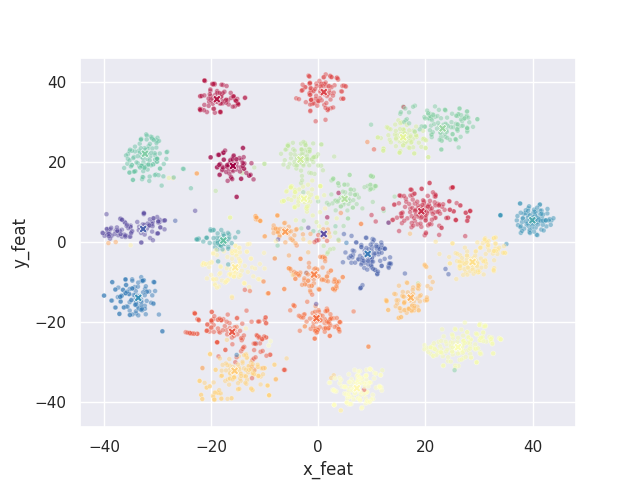
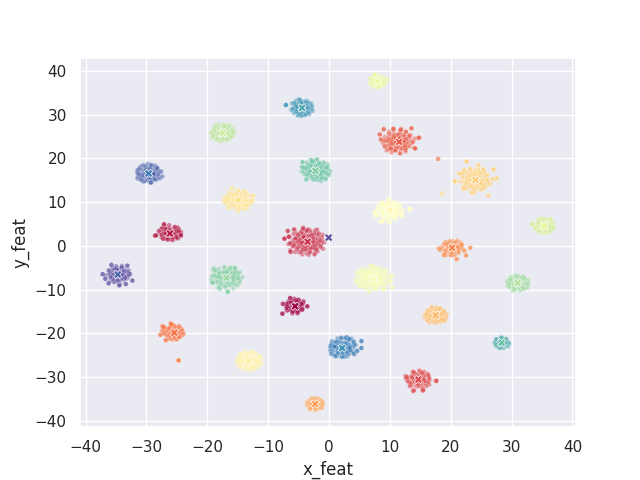
Found centroids using Domain Embeddings and Pre trained weights from image_source_only training

diff --git a/warmup.py b/warmup.py
@@ -65,10 +65,12 @@ def load_models(args,dom_adapts):
         netF = network.ViT().to(device)
     
     args.feature_dim = netF.in_features
-    args.bottleneck_dim = 256
-
-    netB = network.feat_bootleneck(type='bn', feature_dim=args.feature_dim,bottleneck_dim=args.bottleneck_dim).to(device)
-    netC = network.feat_classifier(type='wn', class_num=args.class_num, bottleneck_dim=args.bottleneck_dim).to(device)
+    netB = network.feat_bootleneck(
+        type=args.classifier,
+        feature_dim=netF.in_features + args.proto_dim,
+        bottleneck_dim=args.bottleneck
+     ).to(device)
+    netC = network.feat_classifier(type=args.layer, class_num=args.class_num, bottleneck_dim=args.bottleneck).to(device)
 
     modelpathF = f'{args.trained_wt}/{dom_adapts}/source_F.pt'
     netF.load_state_dict(torch.load(modelpathF))
@@ -90,7 +92,14 @@ def load_models(args,dom_adapts):
     return model_loaders
 
 
-def compute_features(args, net, dataloader, dataset_name=None):
+def attach_embd(prototypes, feats, dom_idx):
+    dom_embd = prototypes[dom_idx] # accessing domain embedding according to domain index
+                                    # shape: [bs, 512]
+    x = torch.cat((feats, dom_embd), dim=1) # concat: ([bs, 2048], [bs, 512])
+    return x
+
+
+def compute_features(args, net, dataloader, prototypes, dataset_name=None):
     # print(len(dataloader))
     netF,netB, netC = net[0], net[1], net[2]
     print(f'Computing features for [{dataset_name}] -', len(dataloader)*args.batch_size, 'images')
@@ -98,7 +107,7 @@ def compute_features(args, net, dataloader, dataset_name=None):
     correct = 0
     total = 0
     stored_feat_lbl = {}
-    stored_feat_lbl['feature'] = torch.empty((1,args.bottleneck_dim)).to(device)
+    stored_feat_lbl['feature'] = torch.empty((1,args.bottleneck)).to(device)
     stored_feat_lbl['label'] = torch.empty((1), dtype=torch.int).to(device)
     # print(store_feat)
     
@@ -106,11 +115,14 @@ def compute_features(args, net, dataloader, dataset_name=None):
         iter_test = iter(dataloader)
         for i in tqdm(range(len(dataloader))):
             data = iter_test.next()
-            inputs = data[0][0].to('cuda')
-            labels = data[0][1].to('cuda')
-            
-            feats = netB(netF(inputs))            
+            inputs = data[0][0].to(device)
+            labels = data[0][1].to(device)
+            dom_idx = data[1]
 
+            fout  = netF(inputs)
+            x = attach_embd(prototypes, fout , dom_idx)
+            feats = netB(x)
+            
             stored_feat_lbl['feature'] = torch.cat((stored_feat_lbl['feature'], feats), 0)
             stored_feat_lbl['label'] = torch.cat((stored_feat_lbl['label'], labels), 0)
 
@@ -137,9 +149,9 @@ def compute_features(args, net, dataloader, dataset_name=None):
 
 def compute_centroids(args,features_labels):
     
-    run_sum = torch.zeros((args.class_num, args.bottleneck_dim), dtype=torch.float).to(device)
+    run_sum = torch.zeros((args.class_num, args.bottleneck), dtype=torch.float).to(device)
     lbl_cnt = torch.ones((args.class_num), dtype=torch.float).to(device)
-    cls_centroids = torch.zeros((args.class_num, args.bottleneck_dim), dtype=torch.float).to(device)
+    cls_centroids = torch.zeros((args.class_num, args.bottleneck), dtype=torch.float).to(device)
 
     for feat, lbl in zip(features_labels['feature'],features_labels['label']):
         run_sum[lbl] += feat
@@ -190,12 +202,18 @@ def main(args):
     dom_dataloaders[args.target] = train_target_loader
     model_loaders ={}
 
+    print("Loading Domian Embeddings from: %s" % args.proto_path)
+    prototypes_file = osp.join(args.proto_path)
+    prototypes = torch.load(prototypes_file)
+    prototypes = torch.stack(list(prototypes.values()), dim=0)  # shape: [4, 512]
+    prototypes = prototypes.to(device)
+
     for domain in [args.source, args.target]:
         model_loaders[domain] = load_models(args, domain)
         features_labels = {}
 
         # Compute features and labels of src and targets using src trained wts
-        features_labels[domain] = compute_features(args, model_loaders[domain] , dom_dataloaders[domain], dataset_name=domain)
+        features_labels[domain] = compute_features(args, model_loaders[domain] , dom_dataloaders[domain], prototypes, dataset_name=domain)
         # features_labels['target'] = compute_features(args, model_loaders[args.target] , dom_dataloaders[args.target], dataset_name=args.target)
         np_cls_centroids = compute_centroids(args,features_labels[domain]).cpu().numpy()
         np_feat = features_labels[domain]['feature'].cpu().numpy()
@@ -206,20 +224,30 @@ def main(args):
         break
 
 if __name__ == "__main__":
-    parser = argparse.ArgumentParser(description='Clusformer')
-    parser.add_argument('-b', '--batch_size', default=32, type=int,help='mini-batch size (default: 54)')
+    parser = argparse.ArgumentParser(description='Centroids')
+    parser.add_argument('-b', '--batch_size', default=64, type=int,help='mini-batch size (default: 64)')
     # parser.add_argument('--gpu_id', type=str, nargs='?', default='0', help="device id to run")
     parser.add_argument('--root', default='data/', type=str, )
     parser.add_argument('--workers', default=8, type=int )
     parser.add_argument('-s', '--source',default='Ar,Pr', type=str,help='Select the source [amazon, dslr, webcam]')
     parser.add_argument('-t', '--target', default='Cl,Rw',type=str,help='Select the target [amazon, dslr, webcam]')
     parser.add_argument('-d', '--dataset',default='OfficeHome', type=str,help='Select the target [amazon, dslr, webcam]')
+    parser.add_argument('--proto_path', help="path to Domain Embedding Prototypes")
     # parser.add_argument('-e', '--epochs', default=40, type=int,help='select number of cycles')
+    parser.add_argument('--proto_dim', type=int, default=512)
+    parser.add_argument('--bottleneck', type=int, default=256)
+    parser.add_argument('--layer', type=str, default="wn", choices=["linear", "wn"])
+    parser.add_argument('--classifier', type=str, default="bn", choices=["ori", "bn"])
     parser.add_argument('-w', '--wandb', default=0, type=int,help='Log to wandb or not [0 - dont use | 1 - use]')
-    parser.add_argument('--net', default='resnet50', type=str,help='Select vit or resnet50 based (default: vit)')
+    parser.add_argument('--net', default='resnet50', type=str,help='Select vit or resnet50 based (default: resnet50)')
     parser.add_argument('-l', '--trained_wt', default='weights/uda/OfficeHome', type=str,help='Load src')
     args = parser.parse_args()
     print(args)
+
+
+    # args.proto_path = "./protoruns/run7/prototypes.pth"
+    assert osp.exists(args.proto_path), "Domain Embeddings Prototypes does not exists." 
+
     main(args)
 # data_size, dims, num_clusters = 1000, 2, 3
 # x = np.random.randn(data_size, dims) / 6

diff --git a/image_source_final.py b/image_source_final.py
@@ -190,6 +190,7 @@ def train_source(args):
     optimizer = optim.SGD(param_group)
     optimizer = op_copy(optimizer)
 
+    print("Loading Domian Embeddings from: %s" % args.proto_path)
     prototypes_file = osp.join(args.proto_path)
     prototypes = torch.load(prototypes_file)
     prototypes = torch.stack(list(prototypes.values()), dim=0)  # shape: [4, 512]
@@ -337,7 +338,7 @@ def print_args(args):
     return s
 
 if __name__ == "__main__":
-    parser = argparse.ArgumentParser(description='SHOT')
+    parser = argparse.ArgumentParser(description='SourceOnly Training')
     parser.add_argument('--source',default='Ar,Pr', type=str, help="source")
     parser.add_argument('--target',default='Cl,Rw', type=str, help="target")
     parser.add_argument('--root', default='data/', type=str, help="source")

diff --git a/README.md b/README.md
@@ -78,7 +78,8 @@ mv R50+ViT-B_16.npz ./model/vit_checkpoint/imagenet21k/R50+ViT-B_16.npz
 - Run `sh source_only.sh` 
 - Suppose you want to donwload Office-Home, just uncomment any line of Office-Home source training and it will download
 
-This code is taken from [Transfer-Learning-Library](https://github.com/thuml/Transfer-Learning-Library). This will be boiler-plate code. Do checkout some of the [examples](https://github.com/thuml/Transfer-Learning-Library/tree/master/examples/domain_adaptation).
+### CODE
+- Run `sh source_only.sh` for multi-src training. 
+- Run `scripts/warmup.sh` for calculating centroids
 
-### Source Only Training 
-- Run `sh source_only.sh` by uncommenting proper source and target. 
+This code is taken from [Transfer-Learning-Library](https://github.com/thuml/Transfer-Learning-Library). This will be boiler-plate code. Do checkout some of the [examples](https://github.com/thuml/Transfer-Learning-Library/tree/master/examples/domain_adaptation).
